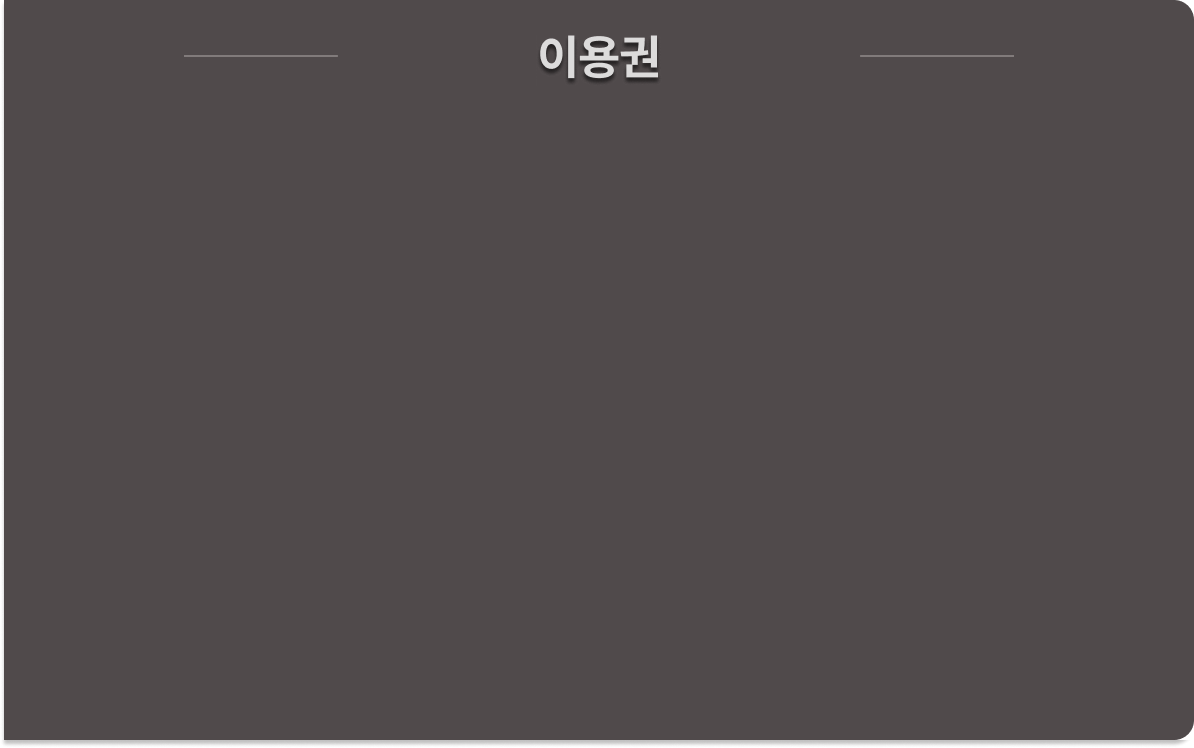
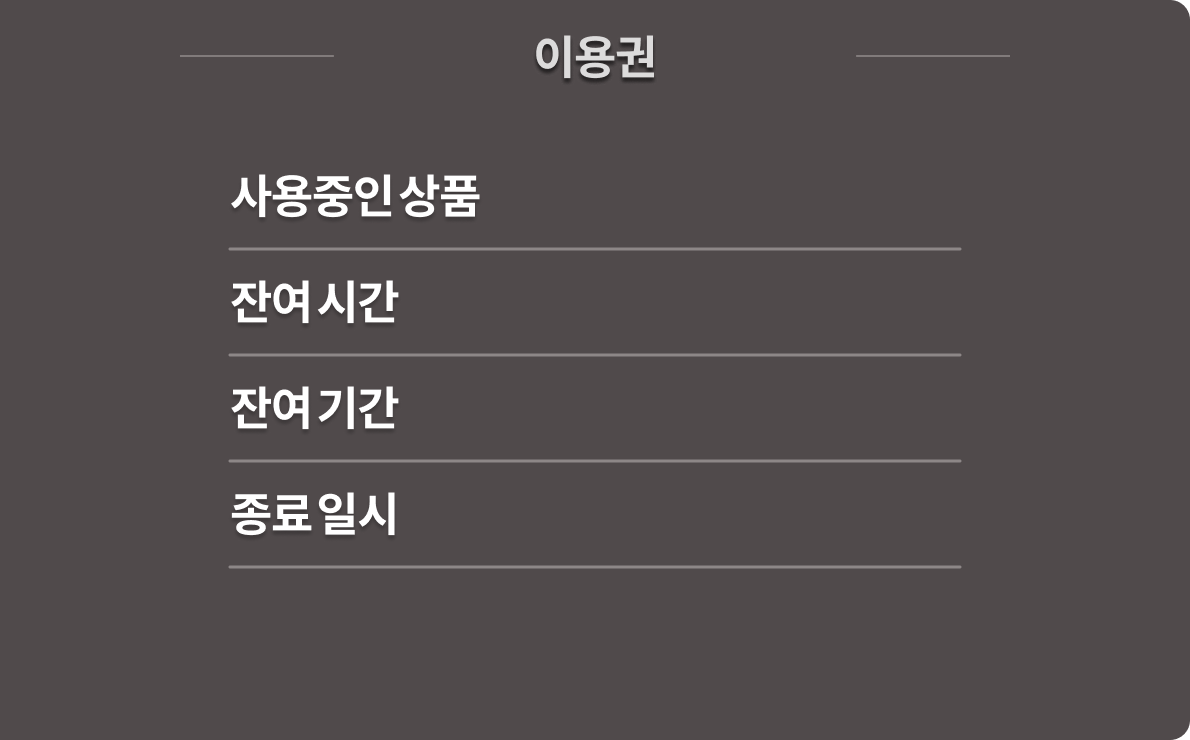
ㅅㅈㅈ

diff --git a/src/panel/MyPagePanel.java b/src/panel/MyPagePanel.java
@@ -1,16 +1,20 @@
 package panel;
 
 import java.awt.CardLayout;
-import java.awt.Color;
-import java.awt.Container;
 import java.awt.event.ActionEvent;
 import java.awt.event.ActionListener;
 
 import javax.swing.ButtonGroup;
 import javax.swing.ImageIcon;
 import javax.swing.JButton;
+import javax.swing.JFrame;
+import javax.swing.JLabel;
 import javax.swing.JPanel;
 import javax.swing.JToggleButton;
+
+import dto.Member;
+import toggle.UseTicketToggle;
+import toggle.UserInfoToggle;
 
 public class MyPagePanel extends JPanel {
 
@@ -20,94 +24,94 @@ public class MyPagePanel extends JPanel {
     JButton logoutBtn = new JButton("로그아웃");
     JButton mainBtn = new JButton("좌석보기");
     
-    // 마이페이지 배경
+    // 마이페이지  배경 이미지
     ImageIcon myPageBg = new ImageIcon("ui/background/MyPage_BG.jpg"); 
     
-    // 마이페이지 안쪽 
-    ImageIcon myPageContBg = new ImageIcon("ui/MyPage/MyPage_Contents.jpg"); 
+    // 마이페이지 콘텐츠 영역 이미지
+    ImageIcon myPageContBg = new ImageIcon("ui/MyPage/MyPage_Contents_Frame.jpg"); 
     
-    // 회원정보, 이용권미지
-    ImageIcon myPageUserInfoBg = new ImageIcon("ui/MyPage/MyPage_UserInfo_Rigth_Frame.png");
-    ImageIcon myPageUseTicketBg = new ImageIcon("ui/MyPage/MyPage_UseTicket_Rigth_Frame.png");
+    ImageIcon userInfoTogOn = new ImageIcon("ui/MyPage/UserInfo_Button.png");
+
+    ImageIcon useTicketOn = new ImageIcon("ui/MyPage/UseTicket_Button.png");
     
     /* 패널 */
     BackgroundPanel myPagebg = new BackgroundPanel(myPageBg);
     BackgroundPanel mpMainCont = new BackgroundPanel(myPageContBg);
     
-    Container myPageContainer = new JPanel();
-    BackgroundPanel userInfoPanel = new BackgroundPanel(myPageUserInfoBg);
-    BackgroundPanel useTicketPanel = new BackgroundPanel(myPageUseTicketBg);
-	
-	// 회원정보 토글 버튼
-	JToggleButton userInfoToggleBtn = createToggleButton("ui/MyPage/UserInfo_Button_Empty.png",
-			"ui/MyPage/UserInfo_Button.png", 10, 190, 484, 258);
-	
-	// 이용권 토글 버튼
-	JToggleButton useTicketToggleBtn = createToggleButton("ui/MyPage/UseTicket_Button_Empty.png",
-			"ui/MyPage/UseTicket_Button.png", 10, 470, 484, 258);
-	
+    JPanel myPageContainer = new JPanel();
+    
+    UserInfoPanel userInfoPanel = new UserInfoPanel();
+    UseTicketPanel useTicketPanel = new UseTicketPanel();
+    
+    JToggleButton userInfoTogBtn = new UserInfoToggle(userInfoTogOn, myPageCard, userInfoPanel, myPageContainer);
+    JToggleButton useTicketTogBtn = new UseTicketToggle(myPageCard, useTicketPanel, myPageContainer);
+    
 	ButtonGroup myPageTogGroup = new ButtonGroup(); // 토글버튼 그룹 지정
-	
 
+	
+	
     public MyPagePanel() {
     	
-
-    	// 기본 배경 설정
+//    	this.member = member;
+//    	
+//    	phoneNum = new JLabel(member.getPhone_number());
+//    	phoneNum.setBounds(getVisibleRect());
+//    	
+    	
     	add(myPagebg);
     	setLayout(null);
 
         // MyPage 배경 설정
     	myPagebg.add(mpMainCont);
+    	mpMainCont.setLayout(null);
         mpMainCont.setBounds(110, 230, 1700, 760);
         
+        // 카드레이아웃 부모 컨테이너
         mpMainCont.add(myPageContainer);
-        myPageContainer.setBounds(510, 10, 1190, 740);
-        myPageContainer.setBackground(new Color(0, 0, 0, 0));
         myPageContainer.setLayout(myPageCard);
+        myPageContainer.setOpaque(false);
+        myPageContainer.setBounds(510, 10, 1190, 740);
+        
+        userInfoPanel.setLayout(null);
+        userInfoPanel.setBounds(510, 10, 1190, 740);
+        
+        useTicketPanel.setLayout(null);
+        useTicketPanel.setBounds(510, 10, 1190, 740);
         
         myPageContainer.add(userInfoPanel, "UserInfomation");
         myPageContainer.add(useTicketPanel, "UseTicket");
         
-        
-        
         // MyPage 토글 버튼 
-        mpMainCont.add(userInfoToggleBtn);
-        mpMainCont.add(useTicketToggleBtn);
+        mpMainCont.add(userInfoTogBtn);
+        mpMainCont.add(useTicketTogBtn);
+        
+        userInfoTogBtn.addActionListener(new ActionListener() {
+        	
+			@Override
+			public void actionPerformed(ActionEvent e) {
+				
+				userInfoTogBtn.setIcon(userInfoTogOn);
+				useTicketTogBtn.setIcon(null);
+			}
+		});
+        
+        useTicketTogBtn.addActionListener(new ActionListener() {
+        	
+			@Override
+			public void actionPerformed(ActionEvent e) {
+				
+				useTicketTogBtn.setIcon(useTicketOn);
+				userInfoTogBtn.setIcon(null);
+			}
+		});
+        
         
         // MyPage 토글 그룹  
-        myPageTogGroup.add(userInfoToggleBtn);
-        myPageTogGroup.add(useTicketToggleBtn);
-        
+        myPageTogGroup.add(userInfoTogBtn);
+        myPageTogGroup.add(useTicketTogBtn);
         
         
         
     } // end of constructor 
 
-    private JToggleButton createToggleButton(String iconPathBefore, String iconPathAfter, int x, int y, int width, int height) {
-    	// 버튼 선택 전, 후 이미지 절대 경로
-        ImageIcon iconBefore = new ImageIcon(iconPathBefore);
-        ImageIcon iconAfter = new ImageIcon(iconPathAfter);
-
-        // 버튼 기본 상태 설정
-        JToggleButton toggleButton = new JToggleButton(iconBefore);
-        toggleButton.setContentAreaFilled(false);
-        toggleButton.setBorderPainted(false);
-        toggleButton.setFocusPainted(false);
-        toggleButton.setBounds(x, y, width, height);
-
-        // 버튼 클릭 시 이미지 변경 이벤트
-        toggleButton.addActionListener(new ActionListener() {
-            @Override
-            public void actionPerformed(ActionEvent e) {
-                if (toggleButton.isSelected()) {
-                    toggleButton.setIcon(iconAfter);
-                } else {
-                    toggleButton.setIcon(iconBefore);
-                }
-            }
-        });
-        
-
-        return toggleButton;
-    }
-}
+} // end of class
